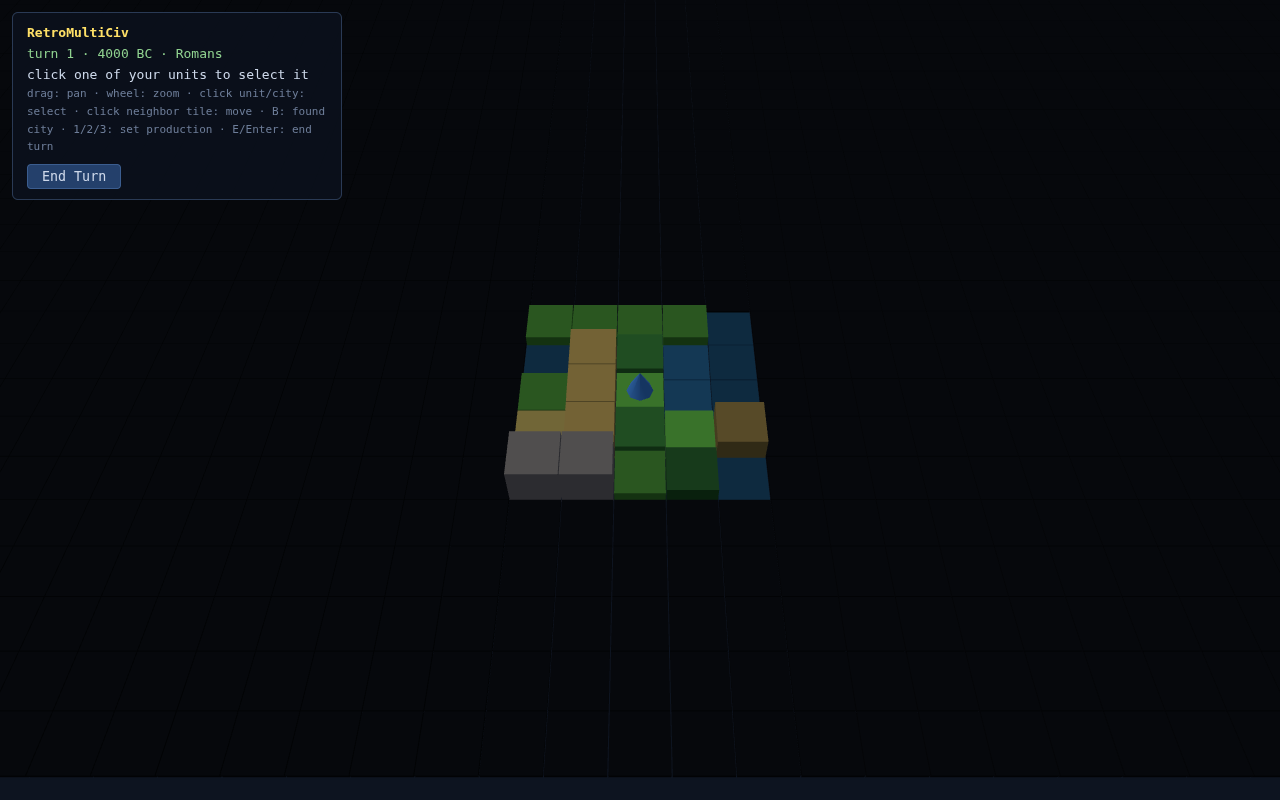
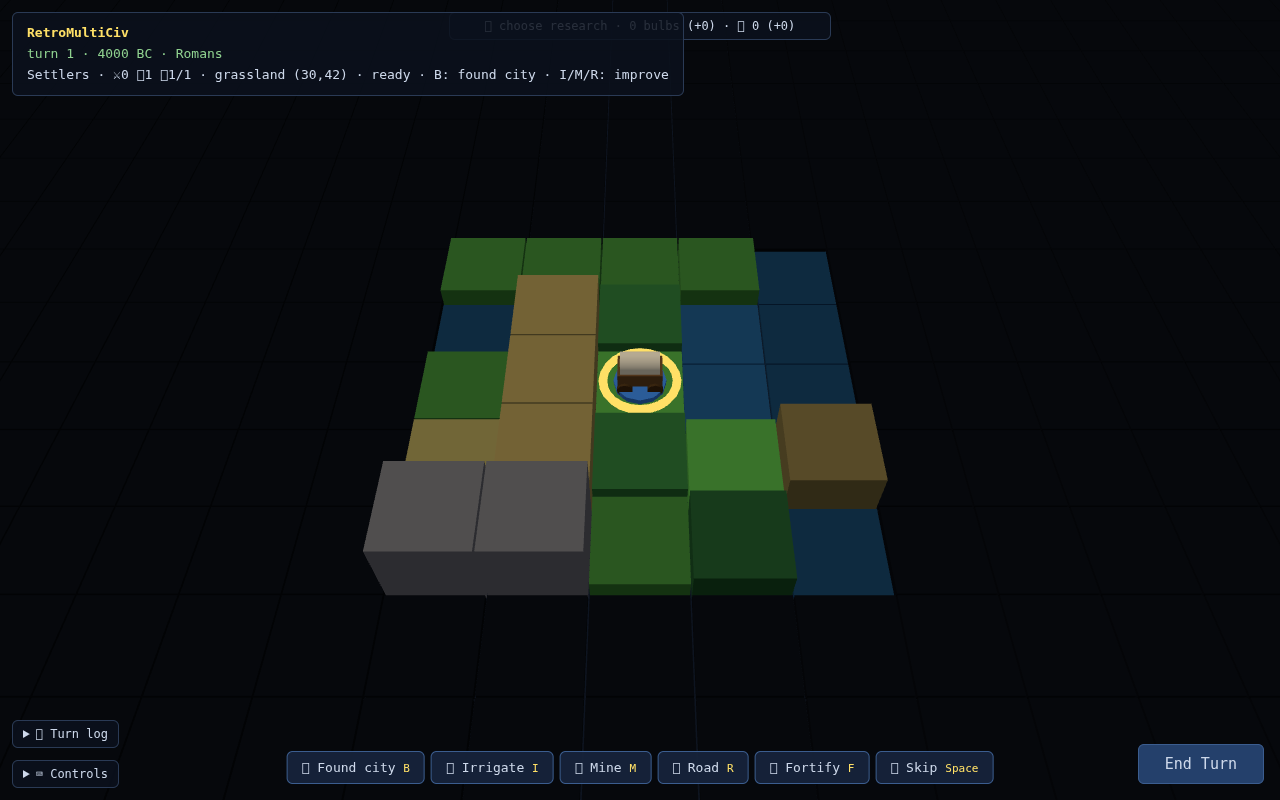
Added asset production

diff --git a/client/renderer/three/assets.js b/client/renderer/three/assets.js
@@ -1,0 +1,131 @@
+// AssetFactory (art track A0/A1, specs/plan-assets.md): all unit/city mesh
+// construction lives here — the renderer maps state to visuals, this module
+// decides how they look. Ownership reads as a colored base disc + banner on
+// a mostly neutral body (not a whole-mesh recolor). Materials are Lambert
+// (cheap on SwiftShader/WebGL1 — the r162 constraint applies to art too) and
+// cached per color; geometries are shared module constants, so removing a
+// group from the scene needs no disposal.
+import * as THREE from 'three';
+
+// --- shared materials ---------------------------------------------------------
+const NEUTRAL = {
+  wood: new THREE.MeshLambertMaterial({ color: 0x6b4a2a }),
+  wheel: new THREE.MeshLambertMaterial({ color: 0x4a3319 }),
+  canvas: new THREE.MeshLambertMaterial({ color: 0xe8e0cc }),
+  cloth: new THREE.MeshLambertMaterial({ color: 0x8b93a5 }),
+  skin: new THREE.MeshLambertMaterial({ color: 0xd7a27d }),
+  metal: new THREE.MeshLambertMaterial({ color: 0xb8b8b8 }),
+  stone: new THREE.MeshLambertMaterial({ color: 0xc2ab82 }),
+  house: new THREE.MeshLambertMaterial({ color: 0xe1d0ad })
+};
+
+const matCache = {};
+function matFor(color) {
+  if (!matCache[color]) matCache[color] = new THREE.MeshLambertMaterial({ color });
+  return matCache[color];
+}
+
+const flagCache = {};
+function flagMatFor(color) {
+  if (!flagCache[color]) {
+    flagCache[color] = new THREE.MeshLambertMaterial({ color, side: THREE.DoubleSide });
+  }
+  return flagCache[color];
+}
+
+// --- shared geometries ----------------------------------------------------------
+const GEO = {
+  baseDisc: new THREE.CylinderGeometry(0.3, 0.3, 0.07, 12),
+  body: new THREE.ConeGeometry(0.17, 0.42, 8),
+  head: new THREE.SphereGeometry(0.1, 10, 8),
+  spear: new THREE.CylinderGeometry(0.015, 0.015, 0.7, 6),
+  spearTip: new THREE.ConeGeometry(0.05, 0.12, 4),
+  wagonBody: new THREE.BoxGeometry(0.5, 0.18, 0.3),
+  wagonTop: new THREE.CylinderGeometry(0.14, 0.14, 0.44, 10),
+  wheel: new THREE.CylinderGeometry(0.09, 0.09, 0.04, 10),
+  fallback: new THREE.CylinderGeometry(0.2, 0.24, 0.5, 8),
+  pole: new THREE.CylinderGeometry(0.012, 0.012, 0.7, 6),
+  flag: new THREE.PlaneGeometry(0.22, 0.13),
+  wallRing: new THREE.TorusGeometry(0.42, 0.05, 6, 16),
+  box: new THREE.BoxGeometry(1, 1, 1),
+  roof: new THREE.ConeGeometry(1, 1, 4)
+};
+
+function add(group, geo, mat, x, y, z) {
+  const mesh = new THREE.Mesh(geo, mat);
+  mesh.position.set(x, y, z);
+  group.add(mesh);
+  return mesh;
+}
+
+// silhouette classes for the 28 Civ 1 unit types (unbuilt classes fall back)
+const WAGON_TYPES = { settlers: true, caravan: true, diplomat: true };
+const FOOT_TYPES = {
+  militia: true, phalanx: true, legion: true,
+  musketeers: true, riflemen: true, 'mech-inf': true
+};
+
+function footSoldier(group, color) {
+  add(group, GEO.baseDisc, matFor(color), 0, 0.035, 0);
+  add(group, GEO.body, NEUTRAL.cloth, 0, 0.28, 0);
+  add(group, GEO.head, NEUTRAL.skin, 0, 0.56, 0);
+  const spear = add(group, GEO.spear, NEUTRAL.wood, 0.15, 0.42, 0);
+  spear.rotation.z = -0.12;
+  const tip = add(group, GEO.spearTip, NEUTRAL.metal, 0.19, 0.8, 0);
+  tip.rotation.z = -0.12;
+}
+
+function wagon(group, color) {
+  add(group, GEO.baseDisc, matFor(color), 0, 0.035, 0);
+  add(group, GEO.wagonBody, NEUTRAL.wood, 0, 0.22, 0);
+  const top = add(group, GEO.wagonTop, NEUTRAL.canvas, 0, 0.34, 0);
+  top.rotation.z = Math.PI / 2; // canvas roof lies along the wagon
+  for (const dx of [-0.17, 0.17]) {
+    for (const dz of [-0.16, 0.16]) {
+      const wheel = add(group, GEO.wheel, NEUTRAL.wheel, dx, 0.09, dz);
+      wheel.rotation.x = Math.PI / 2;
+    }
+  }
+}
+
+function fallbackToken(group, color) {
+  add(group, GEO.baseDisc, matFor(color), 0, 0.035, 0);
+  add(group, GEO.fallback, NEUTRAL.cloth, 0, 0.32, 0);
+}
+
+// Returns a group with its base at y = 0 (place it on the tile top).
+export function createUnitMesh(unitType, color) {
+  const group = new THREE.Group();
+  if (WAGON_TYPES[unitType]) wagon(group, color);
+  else if (FOOT_TYPES[unitType]) footSoldier(group, color);
+  else fallbackToken(group, color);
+  return group;
+}
+
+// Deterministic house cluster scaled by population, roofs in the owner's
+// color, a banner pole, and a wall ring once City Walls is built.
+export function createCityMesh(city, color) {
+  const group = new THREE.Group();
+  const roofMat = matFor(color);
+  const houses = Math.min(2 + city.pop, 12);
+  for (let i = 0; i < houses; i++) {
+    const angle = (i / houses) * Math.PI * 2 + 0.5;
+    const dist = 0.16 + (i % 3) * 0.1;
+    const w = 0.14 + (i % 2) * 0.04;
+    const h = 0.12 + (i % 4) * 0.03;
+    const x = Math.cos(angle) * dist;
+    const z = Math.sin(angle) * dist;
+    const base = add(group, GEO.box, NEUTRAL.house, x, h / 2, z);
+    base.scale.set(w, h, w);
+    const roof = add(group, GEO.roof, roofMat, x, h + h * 0.3, z);
+    roof.scale.set(w * 0.8, h * 0.6, w * 0.8);
+    roof.rotation.y = Math.PI / 4;
+  }
+  add(group, GEO.pole, NEUTRAL.stone, 0, 0.35, 0);
+  add(group, GEO.flag, flagMatFor(color), 0.11, 0.6, 0);
+  if ((city.buildings || []).indexOf('city-walls') !== -1) {
+    const wall = add(group, GEO.wallRing, NEUTRAL.stone, 0, 0.06, 0);
+    wall.rotation.x = Math.PI / 2;
+  }
+  return group;
+}

diff --git a/client/renderer/three/index.js b/client/renderer/three/index.js
@@ -1,6 +1,8 @@
-// three.js low-poly renderer: tiles as flat colored boxes, units as simple
-// meshes, raycast picking. Fixed-tilt camera with drag-pan and wheel-zoom.
+// three.js low-poly renderer: tiles as flat colored boxes, units and cities
+// as AssetFactory groups (assets.js), raycast picking. Fixed-tilt camera with
+// drag-pan and wheel-zoom.
 import * as THREE from 'three';
+import { createUnitMesh, createCityMesh } from './assets.js';
 
 const TERRAIN = {
   ocean:     { color: 0x1d4e79, height: 0.06 },
@@ -71,9 +73,6 @@ export function createRenderer(container) {
   scene.add(worldGroup);
 
   const geoBox = new THREE.BoxGeometry(1, 1, 1);
-  const geoSettler = new THREE.ConeGeometry(0.28, 0.55, 8);
-  const geoSoldier = new THREE.CylinderGeometry(0.2, 0.24, 0.5, 8);
-  const geoCity = new THREE.BoxGeometry(0.7, 0.5, 0.7);
 
   const hoverMarker = new THREE.LineSegments(
     new THREE.EdgesGeometry(new THREE.BoxGeometry(1.02, 1.02, 1.02)),
@@ -136,10 +135,9 @@ export function createRenderer(container) {
     for (const mesh of unitMeshes.values()) worldGroup.remove(mesh);
     unitMeshes.clear();
     for (const u of Object.values(view.units || {})) {
-      const geo = u.type === 'settlers' ? geoSettler : geoSoldier;
       const color = view.players[u.owner]?.color || '#ffffff';
-      const mesh = new THREE.Mesh(geo, new THREE.MeshLambertMaterial({ color }));
-      mesh.position.set(u.x, tileTop(u.x, u.y) + 0.3, u.y);
+      const mesh = createUnitMesh(u.type, color); // group, base at y = 0
+      mesh.position.set(u.x, tileTop(u.x, u.y), u.y);
       mesh.userData.unitId = u.id;
       unitMeshes.set(u.id, mesh);
       worldGroup.add(mesh);
@@ -183,13 +181,13 @@ export function createRenderer(container) {
     cityLabels.length = 0;
     for (const city of Object.values(view.cities || {})) {
       const color = view.players[city.owner]?.color || '#ffffff';
-      const mesh = new THREE.Mesh(geoCity, new THREE.MeshLambertMaterial({ color }));
-      mesh.position.set(city.x, tileTop(city.x, city.y) + 0.25, city.y);
+      const mesh = createCityMesh(city, color); // group, base at y = 0
+      mesh.position.set(city.x, tileTop(city.x, city.y), city.y);
       mesh.userData.cityId = city.id;
       cityMeshes.set(city.id, mesh);
       worldGroup.add(mesh);
       const label = makeCityLabel(String(city.pop), color);
-      label.position.set(city.x, tileTop(city.x, city.y) + 0.95, city.y);
+      label.position.set(city.x, tileTop(city.x, city.y) + 1.05, city.y);
       cityLabels.push(label);
       worldGroup.add(label);
     }
@@ -207,7 +205,8 @@ export function createRenderer(container) {
     raycaster.setFromCamera(pointer, camera);
     const targets = [...unitMeshes.values(), ...cityMeshes.values()];
     if (tileMesh) targets.push(tileMesh);
-    const hit = raycaster.intersectObjects(targets, false)[0];
+    // recursive: units/cities are asset groups — the hit lands on a child
+    const hit = raycaster.intersectObjects(targets, true)[0];
     if (!hit) return null;
     if (hit.object === tileMesh) {
       const x = hit.instanceId % view.map.width;
@@ -216,7 +215,10 @@ export function createRenderer(container) {
       const unit = Object.values(view.units || {}).find(u => u.x === x && u.y === y);
       return { tile: { x, y }, unitId: unit?.id, cityId: undefined };
     }
-    const { unitId, cityId } = hit.object.userData;
+    let obj = hit.object;
+    while (obj && !obj.userData.unitId && !obj.userData.cityId) obj = obj.parent;
+    if (!obj) return null;
+    const { unitId, cityId } = obj.userData;
     const src = unitId ? view.units[unitId] : view.cities[cityId];
     return { tile: { x: src.x, y: src.y }, unitId, cityId };
   }
@@ -321,6 +323,10 @@ export function createRenderer(container) {
     },
     centerOn(x, y) {
       cam.targetX = x; cam.targetZ = y;
+      updateCamera();
+    },
+    setZoom(dist) {
+      cam.dist = Math.min(cam.maxDist, Math.max(cam.minDist, dist));
       updateCamera();
     },
     destroy() {

diff --git a/client/main.js b/client/main.js
@@ -138,6 +138,8 @@ if (firstUnit) {
   ctx.selectUnit(firstUnit);
   renderer.centerOn(firstUnit.x, firstUnit.y);
 }
+const zoom = parseInt(params.get('zoom') || '', 10);
+if (zoom) renderer.setZoom(zoom); // handy for close-up screenshots
 
 // ?e2e=1: scripted sequence for the headless browser test — found a city with
 // the starting settlers and fill both panels, so their code paths execute
@@ -157,4 +159,5 @@ if (params.get('e2e') === '1' && firstUnit && firstUnit.type === 'settlers') {
     const workedCell = document.querySelector('#city-map .ctile.assignable.worked');
     if (workedCell) workedCell.click();
   }
+  if (params.get('e2eclose') === '1') ctx.panels.closeAll(); // unobstructed screenshots
 }

diff --git a/test/client-syntax.test.js b/test/client-syntax.test.js
@@ -19,6 +19,7 @@ const CLIENT_MODULES = [
   'client/ui/turnlog.js',
   'client/renderer/renderer.js',
   'client/renderer/three/index.js',
+  'client/renderer/three/assets.js',
   'engine/ai.js',
   'engine/barbarians.js',
   'engine/cities.js',

diff --git a/docs/03-roadmap.md b/docs/03-roadmap.md
@@ -183,17 +183,20 @@ Runs alongside the gameplay phases, entirely behind the renderer interface
 (`client/renderer/`) — no engine impact, no phase depends on it. Staged per
 the designer ally's plan:
 
-- **A0 — AssetFactory seam** *(cheap, do before A1)*: extract unit/city mesh
-  construction from `renderer/three/index.js` into an asset-factory module
-  (also relieves that file's size ceiling). Same primitives, one place to
-  swap implementations incrementally.
-- **A1 — Procedural low-poly kit** *(good timing: with phase 2/3, makes
-  hotseat playtests legible)*: `THREE.Group` assets from primitives — 3–4
-  land-unit silhouettes + one ship, settlement clusters scaling with
-  population (walls ring when City Walls built), ownership as banner/base
-  ring rather than whole-mesh recolor, forest/resource props (instanced),
-  improvement markers replacing the tile tints. The ally judges this
-  "enough for a compelling local prototype."
+- ✅ **A0 — AssetFactory seam** *(done 2026-07-11)*:
+  `client/renderer/three/assets.js` owns all unit/city mesh construction
+  (shared geometries + per-color Lambert material caches — no per-mesh
+  disposal needed); picking went recursive with a parent walk to the
+  userData-carrying group.
+- 🔶 **A1 — Procedural low-poly kit** *(started 2026-07-11)*: ✅ wagon
+  (settlers/caravan/diplomat), ✅ foot-soldier token (militia→mech-inf),
+  ✅ city house clusters scaled by pop with owner-color roofs, banner, and
+  a wall ring when City Walls is built; ownership = colored base disc, not
+  whole-mesh recolor; other unit classes fall back to a base-disc token.
+  ⬜ remaining: mounted / siege / ship / aircraft silhouettes, improvement
+  markers replacing the batch-C tile tints, forest/resource props
+  (instanced). The ally judges the full kit "enough for a compelling local
+  prototype."
 - **A2 — Hand-authored `.glb` models** *(post-A1, browser-only)*: Blender →
   GLTFLoader for unit sets, city kits, wonders. **Porting note:** primitive
   Groups map near-1:1 to Roblox Parts (the phase-5 client gets a parallel

diff --git a/CLAUDE.md b/CLAUDE.md
@@ -69,11 +69,11 @@ root**, open `http://localhost:8123/client/` (`?seed=N` fixed world,
 `package.json` type markers) so they load in both browser and Node; CJS test
 files use dynamic `import()` for them. `tools/` stays CJS.
 
-**Visual verification without a GPU:** a Playwright-cached headless Chromium
-exists at `~/.cache/ms-playwright/chromium_headless_shell-*/chrome-headless-shell-linux64/chrome-headless-shell`.
-Screenshot the running game with:
-`chrome-headless-shell --no-sandbox --enable-unsafe-swiftshader --use-angle=swiftshader --window-size=1280,800 --virtual-time-budget=10000 --screenshot=out.png "http://127.0.0.1:8123/client/?seed=12345"`
-(SwiftShader flags are required — WebGL has no GPU here and fails without them.)
+**Visual verification without a GPU:** use `debugging/screenshot.sh [out.png]
+[url] [extra chrome flags]` — it wraps the Playwright-cached headless Chromium
+with the required SwiftShader flags (WebGL has no GPU here and fails without
+them). WebGL1 pass: append `--disable-es3-gl-context`. Useful URL params:
+`?zoom=6` close-up, `?e2e=1&e2eclose=1` scripted city + panels closed.
 
 **Test layers** (all via `node --test test/`): unit tests (rng, statehash,
 cities, improvements, combat/barbarians, tech, ai, score, visibility, mapgen,

diff --git a/README.md b/README.md
@@ -84,7 +84,10 @@ roads speed movement and add trade on open terrain). A bottom-center
 **action bar** lists the selected unit's applicable actions with their
 hotkeys; impossible actions explain themselves in a center message, the
 research bar shows gold and bulbs with per-turn deltas, and ending the turn
-with units still to move asks for a confirming second press.
+with units still to move asks for a confirming second press. A first
+low-poly art pass is underway: settlers roll as covered wagons, infantry
+are spear-carrying tokens, and cities grow as house clusters with
+owner-colored roofs, a banner, and walls once City Walls is built.
 **Phase 1 complete: a full, winnable game vs AI.**
 80 headless tests including hash-locked JSON scenarios, an AI-determinism
 lock, and a real-browser e2e that boots the client and inspects the live

diff --git a/docs/02-architecture.md b/docs/02-architecture.md
@@ -81,6 +81,7 @@ multiciv/
 │   └── renderer/          # ★ RENDERER INTERFACE — implementations swappable
 │       ├── renderer.js    #   interface: setViewState, picks, markers…
 │       └── three/         #   v1: low-poly flat boxes + raycast picking
+│           └── assets.js  #   AssetFactory: all unit/city mesh construction
 ├── server/                # Node adapter (phase 3+) — NOT ported to Lua
 │   ├── index.js           # node:http static hosting + ws game sessions
 │   ├── session.js         # lobby, player slots, command routing